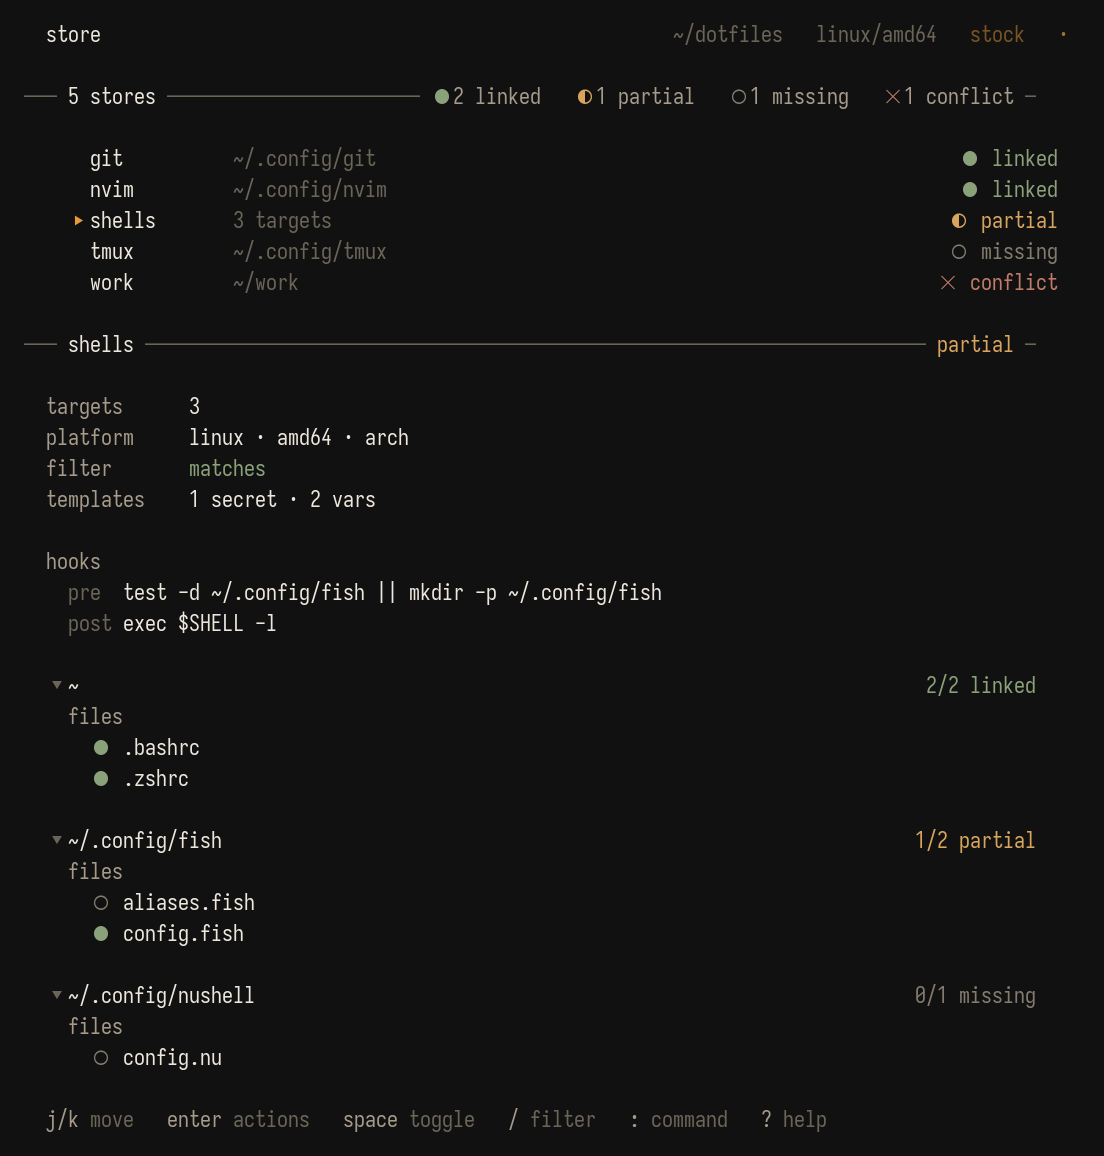
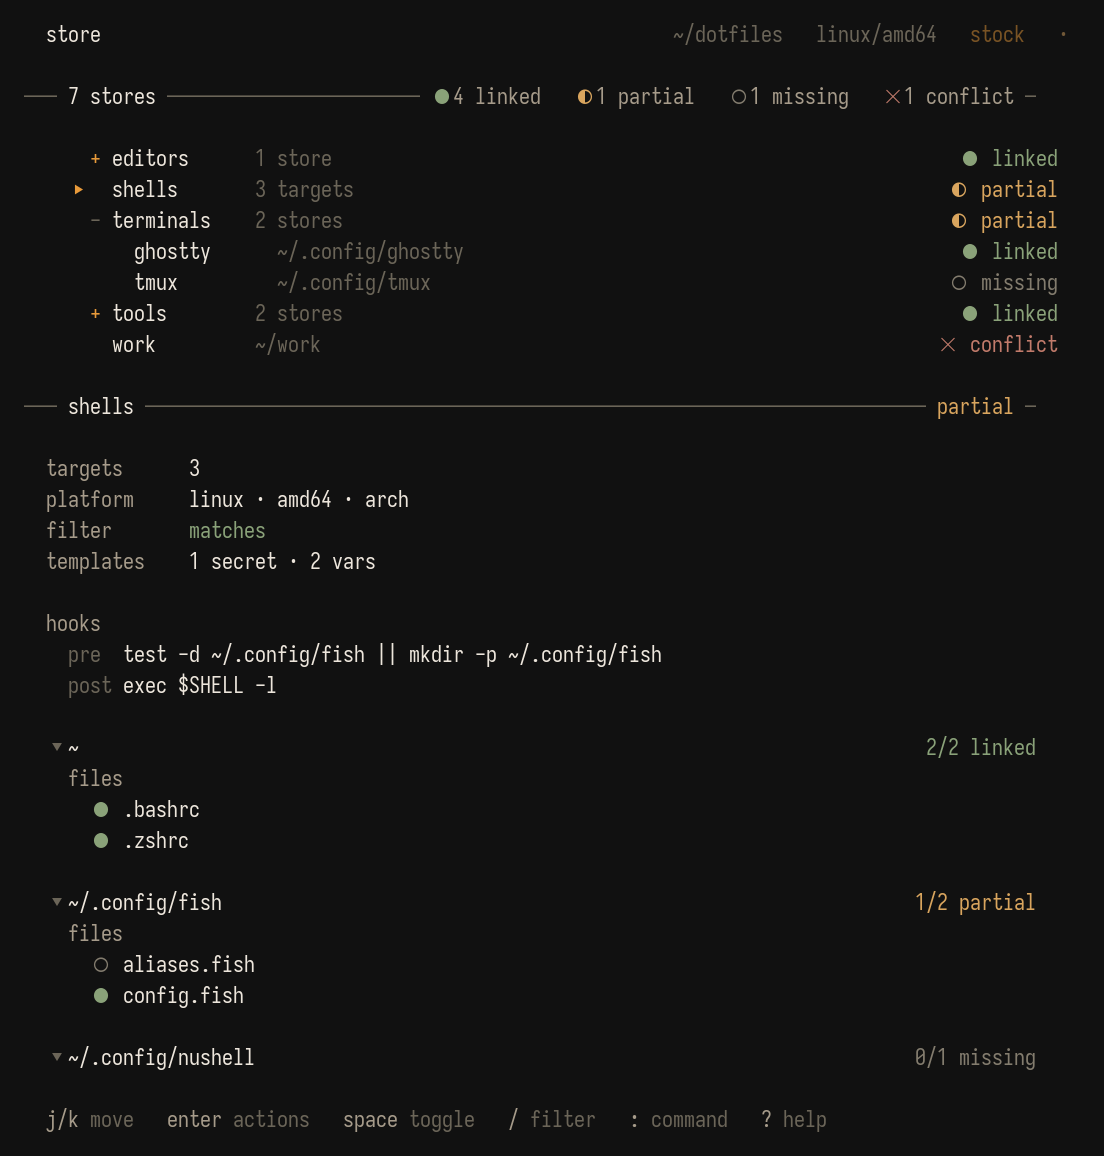
docs: refresh hero demo for nested groups and tree view
The old hero showed a flat ledger of five stores. After v2.5.0 that no
longer exercises the most interesting part of the TUI, so this restages
the demo into nested groups and drives the snapshot script to expand
one group while leaving the others collapsed.

Demo layout now: editors/nvim, shells (multi-target leaf), terminals/
{ghostty, tmux}, tools/{git, lazygit}, work. The ghostty and lazygit
fixtures are new so the tree has more than one leaf per group.

Snapshot keystroke sequence is j j l k: down to terminals, expand it,
back up to shells. The frame catches both a + (collapsed) and a -
(open) group glyph alongside leaves at depth 1, plus the existing
shells detail pane with hooks, when:, templates, and per-target link
counts.

capture.sh and snapshot.py both updated to point symlinks at the new
nested source paths so the TUI still reports them as linked.

diff --git a/docs/hero-demo/snapshot.py b/docs/hero-demo/snapshot.py
@@ -4,9 +4,10 @@ Capture the store TUI as a PNG for the README hero image.
 
 Spawns `store tui` inside an ephemeral HOME where the ledger lands in a
 known mixed state (linked/partial/missing/conflict + a multi-target store
-with templates and hooks), presses `j j` so the cursor lands on `shells`,
-reads the final frame through a pty, parses it with pyte, and renders it
-to a PNG with Pillow.
+with templates and hooks, organized into nested groups), drives a short
+key sequence so the frame shows one expanded group alongside collapsed
+ones with the cursor on `shells`, reads the final frame through a pty,
+parses it with pyte, and renders it to a PNG with Pillow.
 
 Usage:
   docs/hero-demo/snapshot.py [--store PATH] [--out PATH] [--cols N] [--rows N]
@@ -72,12 +73,14 @@ def setup_stage(stage: Path) -> tuple[Path, Path, Path]:
     dotfiles = home / "dotfiles"
     dotfiles.symlink_to(HERE)
 
-    (home / ".config/git").symlink_to(dotfiles / "git")
-    (home / ".config/nvim").symlink_to(dotfiles / "nvim")
+    (home / ".config/nvim").symlink_to(dotfiles / "editors/nvim")
+    (home / ".config/ghostty").symlink_to(dotfiles / "terminals/ghostty")
+    (home / ".config/git").symlink_to(dotfiles / "tools/git")
+    (home / ".config/lazygit").symlink_to(dotfiles / "tools/lazygit")
     (home / ".zshrc").symlink_to(dotfiles / "shells/.zshrc")
     (home / ".bashrc").symlink_to(dotfiles / "shells/.bashrc")
     (home / ".config/fish/config.fish").symlink_to(dotfiles / "shells/config.fish")
-    # aliases.fish and nushell/config.nu intentionally missing.
+    # aliases.fish, nushell/config.nu, and terminals/tmux intentionally missing.
 
     # work: a real directory at the target path produces a conflict.
     notes = home / "work/notes"
@@ -139,14 +142,17 @@ def capture_frame(store_bin: str, cols: int, rows: int) -> pyte.Screen:
         # out is slower but reliable — one extra 5s at snapshot time is
         # fine for a script no-one runs at interactive latency.
         drain(fd, stream, 6.5)
-        # Move cursor to `shells` (third store alphabetically: git, nvim,
-        # shells). Send the j-presses one at a time with a short gap so
-        # bubbletea's input reader sees them as two distinct key events
-        # and the row-fresh animation advances between them.
-        os.write(fd, b"j")
-        time.sleep(0.25)
-        drain(fd, stream, 0.25)
-        os.write(fd, b"j")
+        # Default ledger order (collapsed): editors, shells, terminals,
+        # tools, work. Step the cursor down to `terminals`, expand it with
+        # `l` so the snapshot shows both a `−` (open) and `+` (collapsed)
+        # group glyph in the same frame, then back up to `shells` for the
+        # detail pane. Each press goes one at a time with a short gap so
+        # bubbletea sees them as distinct key events and the row-fresh
+        # animation advances between them.
+        for key in (b"j", b"j", b"l", b"k"):
+            os.write(fd, key)
+            time.sleep(0.25)
+            drain(fd, stream, 0.25)
         # Let the reveal + flash animations settle and the heartbeat tick.
         drain(fd, stream, 1.5)
     finally:

diff --git a/docs/hero-demo/README.md b/docs/hero-demo/README.md
@@ -8,9 +8,17 @@ README screenshot — not part of the `store` binary.
 A small dotfiles repo laid out to exercise every feature the hero shot
 needs in a single TUI frame:
 
-- **Mixed ledger states** — 2 linked, 1 partial, 1 missing, 1 conflict.
-- **Multi-target store** (`shells`) with per-target link counts that
-  come out as `2/2 linked`, `1/2 partial`, `0/1 missing`.
+- **Nested groups** organized as `editors/`, `terminals/`, `tools/`, so
+  the ledger has a real tree to render. The hero frame catches one open
+  group (`terminals`) alongside two collapsed groups (`editors`, `tools`)
+  so both the `+` and `−` glyphs are visible.
+- **Mixed ledger states** across the leaves: 4 linked, 1 partial, 1
+  missing, 1 conflict. Group rows aggregate worst-child state, so
+  `terminals` reports `partial` (one linked, one missing) while
+  `editors` and `tools` show `linked`.
+- **Multi-target store** (`shells`) sitting at the top level so its
+  detail pane is what you see when the cursor lands on it. Per-target
+  link counts come out as `2/2 linked`, `1/2 partial`, `0/1 missing`.
 - **Hooks block** on the selected store (`pre` + `post`).
 - **Platform filter** (`when: os: linux`) so the `filter matches` line
   appears in the detail pane.
@@ -23,18 +31,23 @@ needs in a single TUI frame:
 
 ```text
 hero-demo/
-  .store/config.yaml       # the demo's config, committed to the repo
-  git/                     # linked (whole-directory)
-  nvim/                    # linked (whole-directory)
-  shells/                  # multi-target; partial
-    .zshrc .bashrc         # targeted at ~
-    config.fish            # targeted at ~/.config/fish
-    aliases.fish           #   (intentionally not linked in the demo)
-    config.nu              # targeted at ~/.config/nushell (not linked)
-  tmux/                    # missing (no symlinks created)
-  work/                    # conflict (real dir at target path)
-  capture.sh               # launch the live TUI in the demo state
-  snapshot.py              # regenerate docs/hero.png
+  .store/config.yaml             # nested config, committed to the repo
+  editors/
+    nvim/                        # linked (whole-directory)
+  shells/                        # multi-target; partial
+    .zshrc .bashrc               # targeted at ~
+    config.fish                  # targeted at ~/.config/fish
+    aliases.fish                 #   (intentionally not linked)
+    config.nu                    # targeted at ~/.config/nushell (not linked)
+  terminals/
+    ghostty/                     # linked (whole-directory)
+    tmux/                        # missing (no symlinks created)
+  tools/
+    git/                         # linked (whole-directory)
+    lazygit/                     # linked (whole-directory)
+  work/                          # conflict (real dir at target path)
+  capture.sh                     # launch the live TUI in the demo state
+  snapshot.py                    # regenerate docs/hero.png
 ```
 
 ## See the demo live
@@ -49,8 +62,9 @@ symlinks, missing targets, and a conflicting directory that the hero
 image shows, then exec's `store tui` inside it. Your real home is never
 touched. Press `q` to quit.
 
-Inside the TUI, press `j` twice — the cursor lands on `shells` and the
-detail pane matches `docs/hero.png`.
+Inside the TUI, press `j j l k`. The cursor walks down to the
+`terminals` group, expands it (`l`), and steps back up to `shells`. That
+matches the frame in `docs/hero.png`.
 
 ## Regenerate the PNG
 
@@ -60,9 +74,10 @@ $ python3 -m venv .venv && .venv/bin/pip install pyte pillow
 $ .venv/bin/python snapshot.py --store ./store --out ../hero.png
 ```
 
-The script spawns `store tui` in a pty, feeds `jj` after the initial
-render, captures the final frame with [pyte](https://github.com/selectel/pyte),
-and rasterises it with Pillow using a palette pulled from
+The script spawns `store tui` in a pty, drives `j j l k` after the initial
+render to expand `terminals` and land the cursor on `shells`, captures
+the final frame with [pyte](https://github.com/selectel/pyte), and
+rasterises it with Pillow using a palette pulled from
 `internal/tui/theme.go`.
 
 Flags:
